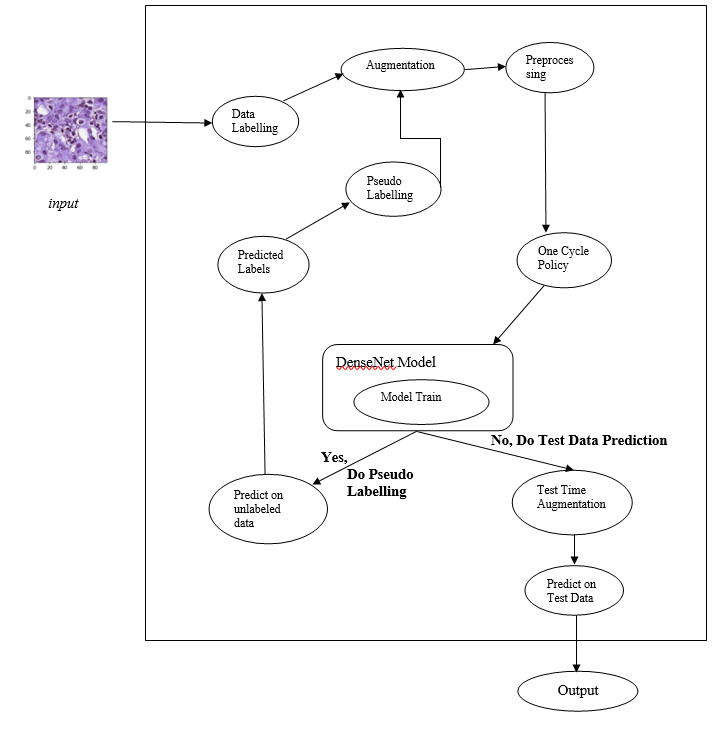
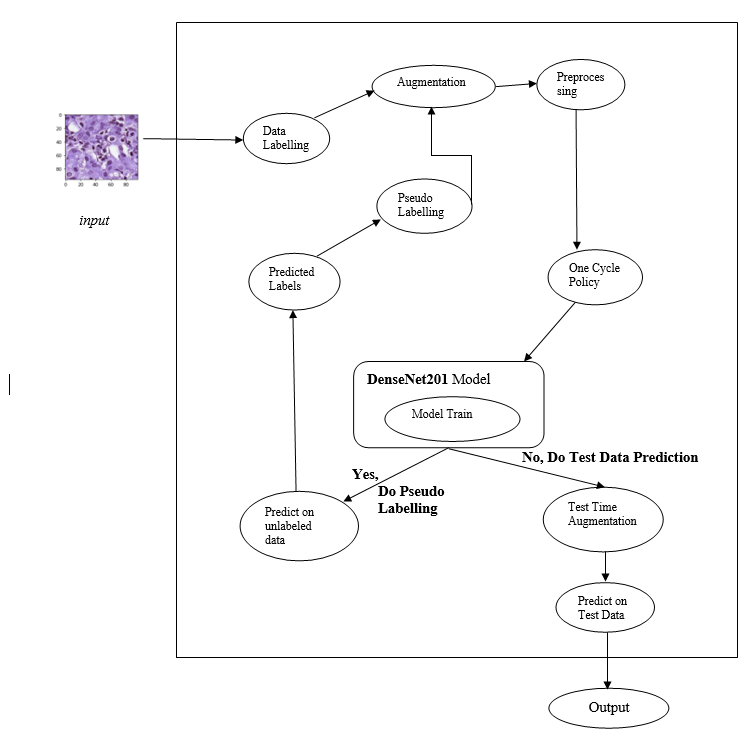
Updated Readme

diff --git a/Readme.md b/Readme.md
@@ -1,4 +1,4 @@
-# Cancer Detection of Lymph Node Metastases
+# Cancer Detection of Lymph Node Metastases (DenseNet201 Model)
 
 ## Introduction
 The aim of the project is to build a Deep Learning Binary Classifier to help detect cancer tissues in histopathological scans of lymph node sections. In this work, we present our deep convolutional neural network based model validated on [PatchCamelyon(PCam)](https://github.com/basveeling/pcam)  benchmark dataset for fundamental machine learning research in histopathology diagnosis. We find that our proposed model trained with a semi-supervised learning approach by using pseudo labels on PCam-level significantly leads to better performances to strong CNN baseline on the AUC metric. Here we train the dataset on various convolution neural network models like InceptionV3, DenseNet and NasNet models. Our best model has an auc score of 97.90%. Through this project we are trying to automate the process of detecting metastatic cancer tissues in histopathologic scans of lymph node sections. The model has demonstrated that it is possible to use these type of models and apply it in pathologies for quick and accurate results.
